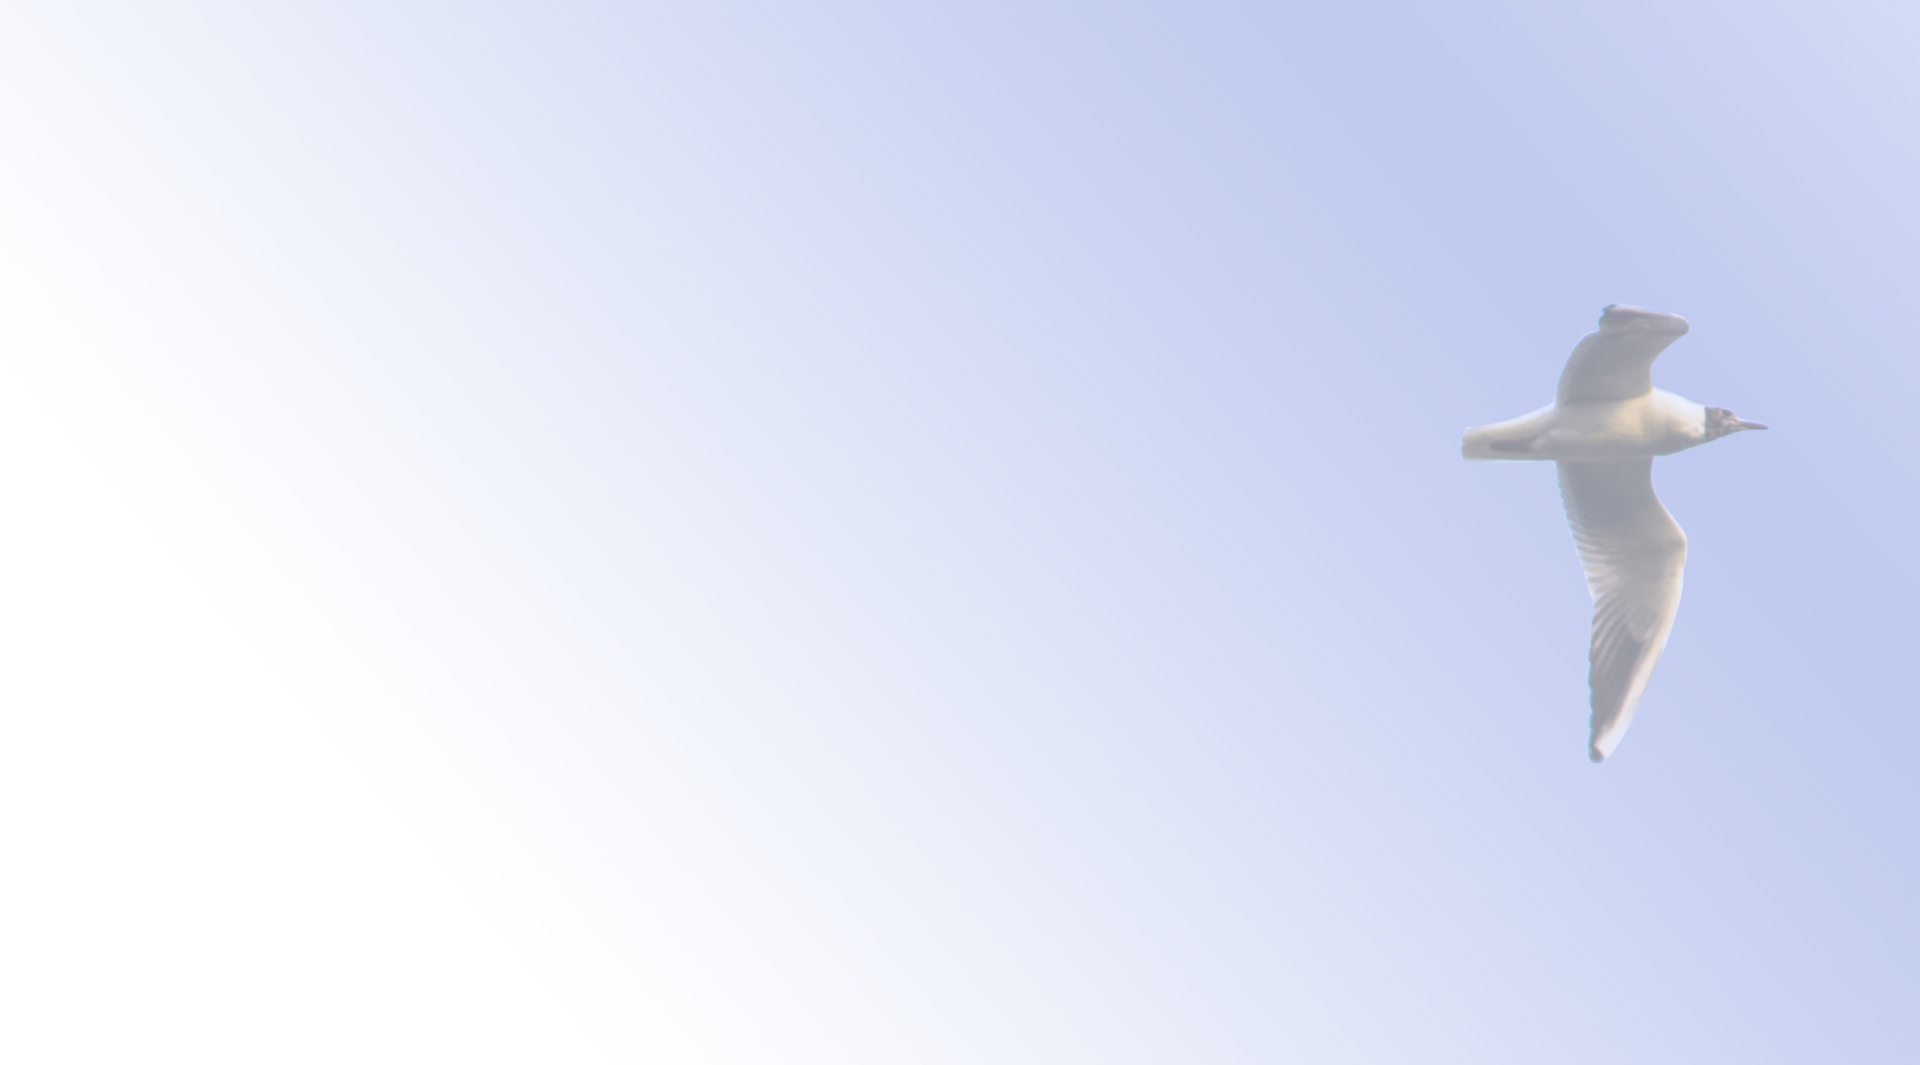
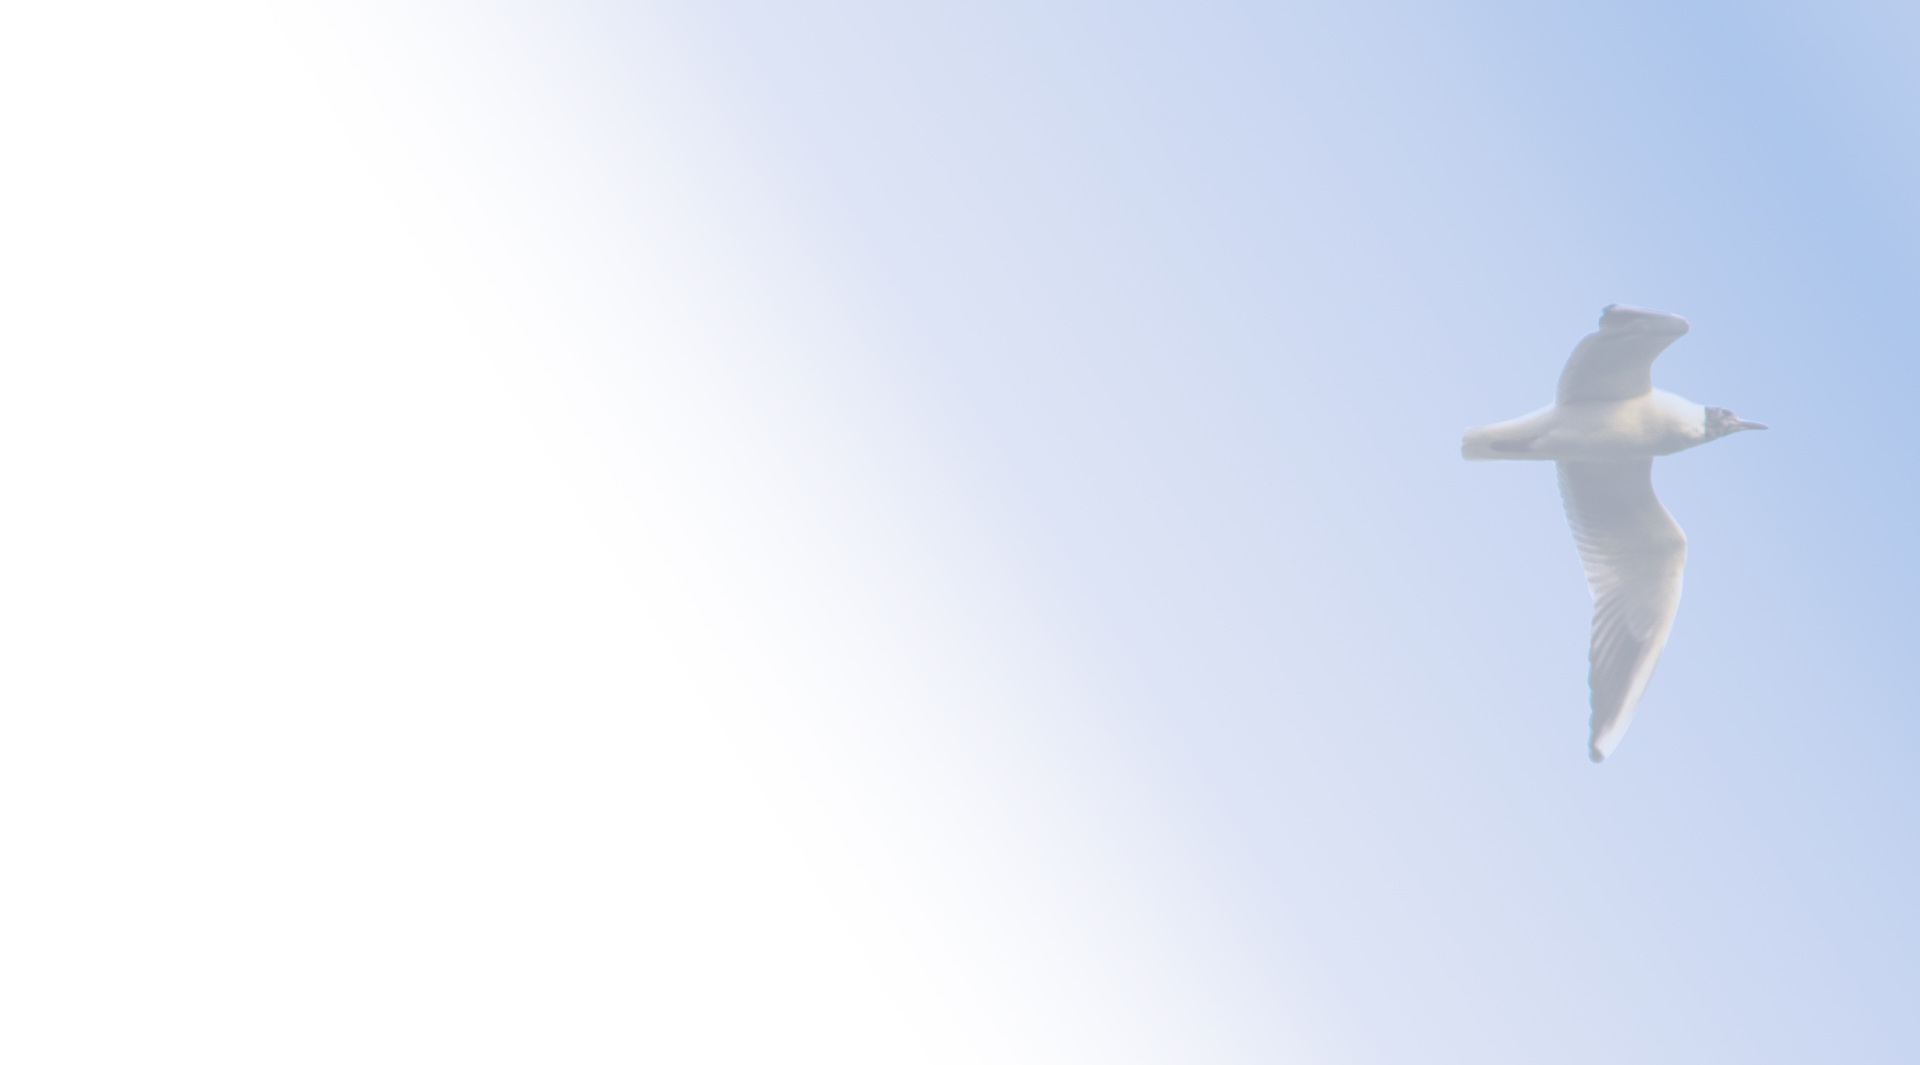
change footer style

Changed region(s): [[0.8438, 0.0, 1.0, 0.3408]]

diff --git a/src/components/Footer.tsx b/src/components/Footer.tsx
@@ -7,7 +7,7 @@ export default function Footer() {
       <div className="footer-left">
         <h3><b>Kontakt</b></h3>
         <div className="footer-contact">
-          <span>📞 0177 2150910</span>
+          <span><i className="bi bi-telephone"></i> 0177 2150910</span>
         </div>
         <div className="footer-contact">
           <span>📧 ritarist@googlemail.com</span>

diff --git a/src/components/Footer.css b/src/components/Footer.css
@@ -18,7 +18,7 @@ body {
 }
 
 .footer {
-  background-color: rgba(185, 211, 241, 0.5);
+  background-color: rgba(130, 154, 203, 0.5);
   padding: 30px 40px;
   display: flex;
   justify-content: space-between;
